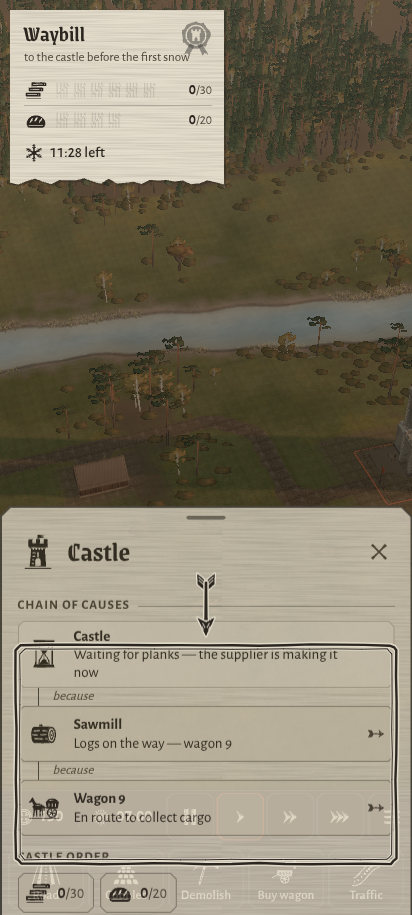
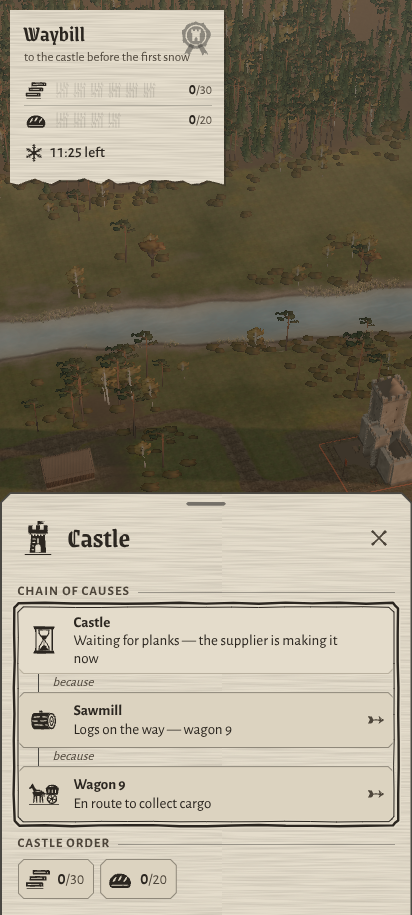
WIP snapshot: UI round 2 and tier wiring in progress
Claude-Session: https://claude.ai/code/session_019bNUiNWDs1XtC7FDp2iuqt

diff --git a/src/ui/tutorial.ts b/src/ui/tutorial.ts
@@ -38,7 +38,7 @@ const CHAIN_WAIT_MS = 5000;
 /** Step 3: a chain link must appear this soon after the card opened, else the step is skipped. */
 const LINK_WAIT_MS = 900;
 /** Step 4 in portrait: the card covers the tool rail; let the player read it, then fold it away. */
-const CLOSE_SHEET_DELAY_MS = 2600;
+const CLOSE_SHEET_DELAY_MS = 2000;
 /** After the last tap: outline the current reason briefly, then end. */
 const CODA_MS = 2600;
 const NOTE_MAX_W = 340;
@@ -329,7 +329,9 @@ export class Tutorial {
     }
 
     const tg = this.target();
-    const box = tg.box && !this.covered(tg.probe) ? grow(tg.box, 4) : null;
+    const box = tg.box && !this.covered(tg.probe) ? grow(tg.box, 6) : null;
+    // inside a card the double rule is enough: an arrow there would lie across the neighbouring links
+    const inSheet = !!tg.probe?.closest('#sheets');
     const now = performance.now();
     if (now - this.placeAt > 150) { this.placeAt = now; this.placeNote(box); }
 
@@ -347,7 +349,7 @@ export class Tutorial {
     }
 
     // arrow: on the free side of the target that does not cross the note
-    const dir = box ? this.arrowDir(box) : null;
+    const dir = box && !inSheet ? this.arrowDir(box) : null;
     this.arrow.classList.toggle('is-shown', !!dir);
     if (box && dir) {
       const gap = 6;

diff --git a/tools/textures/process.py b/tools/textures/process.py
@@ -1,9 +1,11 @@
 """Build shipping PBR textures from Poly Haven JPG downloads (see fetch.py).
 usage:
   python3 -I process.py <src_dir> <out_root> <raw_dir>              # 1k sources -> 1024 (+512 terrain) JPG + PNG
-  python3 -I process.py <src_dir> <out_root> <raw_dir> --tiers      # 4k sources -> 4096 / 2048 raw RGBA for ktx.mjs
+  python3 -I process.py <src_dir> <out_root> <raw_dir> --tiers      # 4k sources -> 4096 / 2048 albedo+orm, 1024 normals (raw RGBA for ktx.mjs)
+  python3 -I process.py <src_dir> <out_root> <raw_dir> --tiers --normals   # only the 1024 tier normals
 The --tiers mode writes no JPGs (KTX2 only, see docs/ASSETS.md): raw files are
 <raw_dir>/<set>__<map>_<size>.rgba (Y not flipped; ktx.mjs flips at encode time).
+Tier normals are 1024 px for high AND ultra (APK budget, D-21); ktx.mjs names them normal.ktx2.
 Grading is identical in both modes; thatch crop/cross-fade lengths scale with the source size.
 """
 import sys, os, json
@@ -12,6 +14,8 @@ from PIL import Image
 
 SRC, OUT, RAW = sys.argv[1], sys.argv[2], sys.argv[3]
 TIERS = '--tiers' in sys.argv[4:]
+NORMALS_ONLY = '--normals' in sys.argv[4:]
+NORMAL_TIER_SIZE = 1024   # high + ultra normals (D-21: 2048 UASTC normals were 45 MB of the APK)
 ONLY = [a for a in sys.argv[4:] if not a.startswith('--')]
 # --tiers: sizes per set. Bark stays 2k (thin trunks, never fills the screen).
 TIER_SIZES = {'bark': [2048]}
@@ -92,13 +96,16 @@ for name, (pid, terrain, sscale, k, target) in SETS.items():
     orm = arm.copy(); orm[..., 2] = 0
     od = f'{OUT}/{name}'; os.makedirs(od, exist_ok=True)
     if TIERS:
+        ns = NORMAL_TIER_SIZE                     # one normal size for high + ultra (D-21)
+        nim = to_img(n, ns)
+        if nim.size[0] < n.shape[1]:              # downsampled normals get shorter: renormalise
+            nim = to_img(renorm(np.asarray(nim).astype(np.float32) / 255), ns)
+        write_rgba(nim, f'{RAW}/{name}__normal_{ns}.rgba')
+        if NORMALS_ONLY:
+            print(name, 'normal', ns, flush=True)
+            continue
         for s in TIER_SIZES.get(name, DEFAULT_TIER_SIZES):
             write_rgba(to_img(g, s), f'{RAW}/{name}__albedo_{s}.rgba')
-            if s == 2048:                         # normals ship at 2k only (ultra reuses them, D-14)
-                nim = to_img(n, s)
-                if nim.size[0] < n.shape[1]:      # downsampled normals get shorter: renormalise
-                    nim = to_img(renorm(np.asarray(nim).astype(np.float32) / 255), s)
-                write_rgba(nim, f'{RAW}/{name}__normal_{s}.rgba')
             write_rgba(to_img(orm, s), f'{RAW}/{name}__orm_{s}.rgba')
             if s == max(TIER_SIZES.get(name, DEFAULT_TIER_SIZES)):   # preview for the contact sheet
                 to_img(g, 1024).save(f'{RAW}/{name}__albedo_preview.jpg', quality=92)
